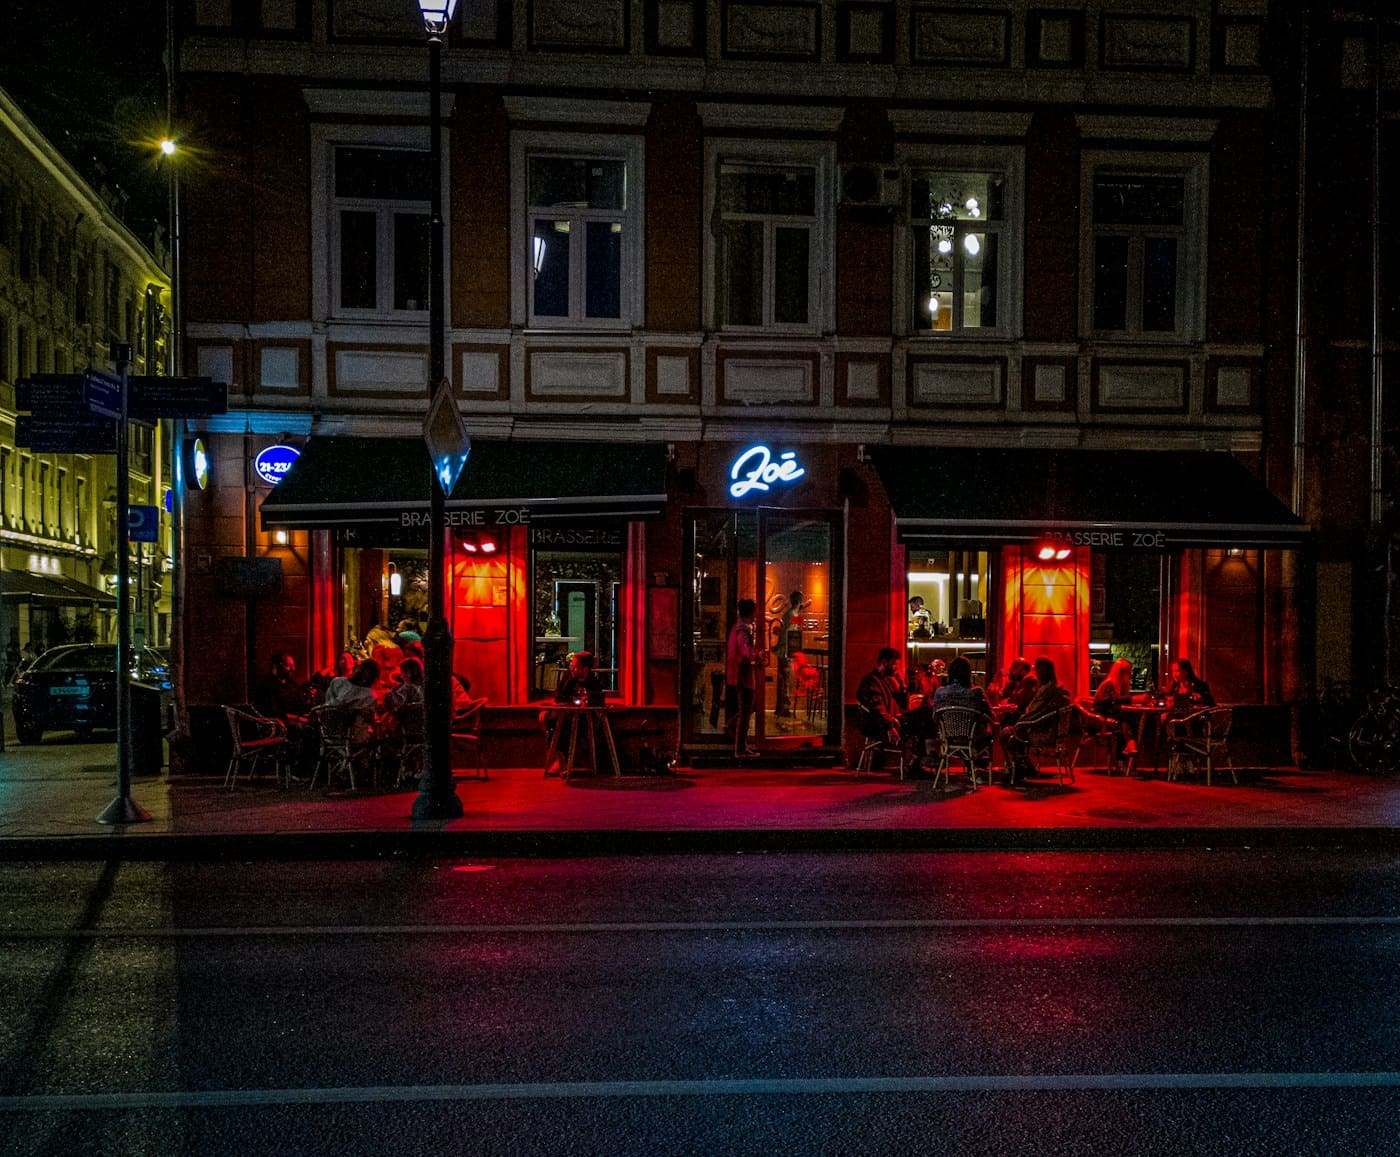
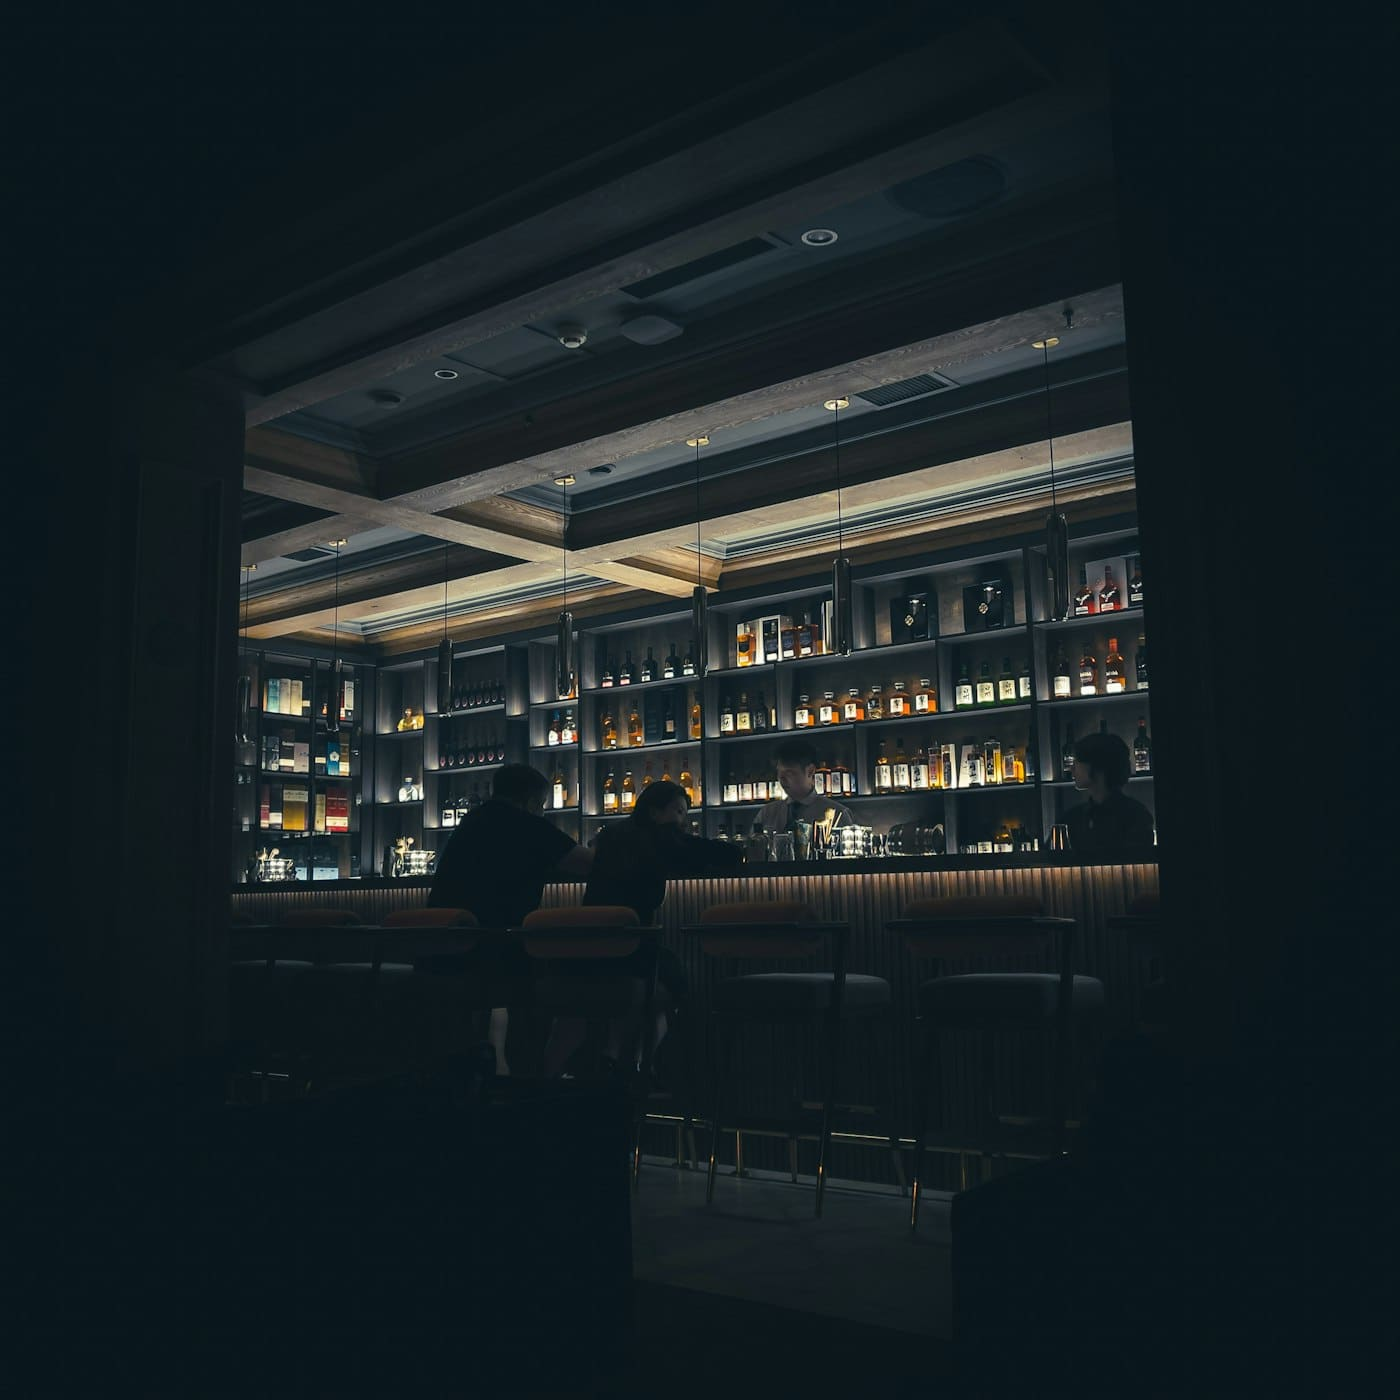
Photo du bar sans enseigne tierce

diff --git a/index.html b/index.html
@@ -73,7 +73,7 @@
       </ul>
     </div>
     <figure class="about__img reveal">
-      <img src="images/rue.jpg" alt="Façade de bar éclairée de rouge dans une rue de nuit" loading="lazy">
+      <img src="images/rue.jpg" alt="Intérieur de bar tamisé, le soir" loading="lazy">
       <figcaption>26 rue Neuve · Lyon 2</figcaption>
     </figure>
   </section>
